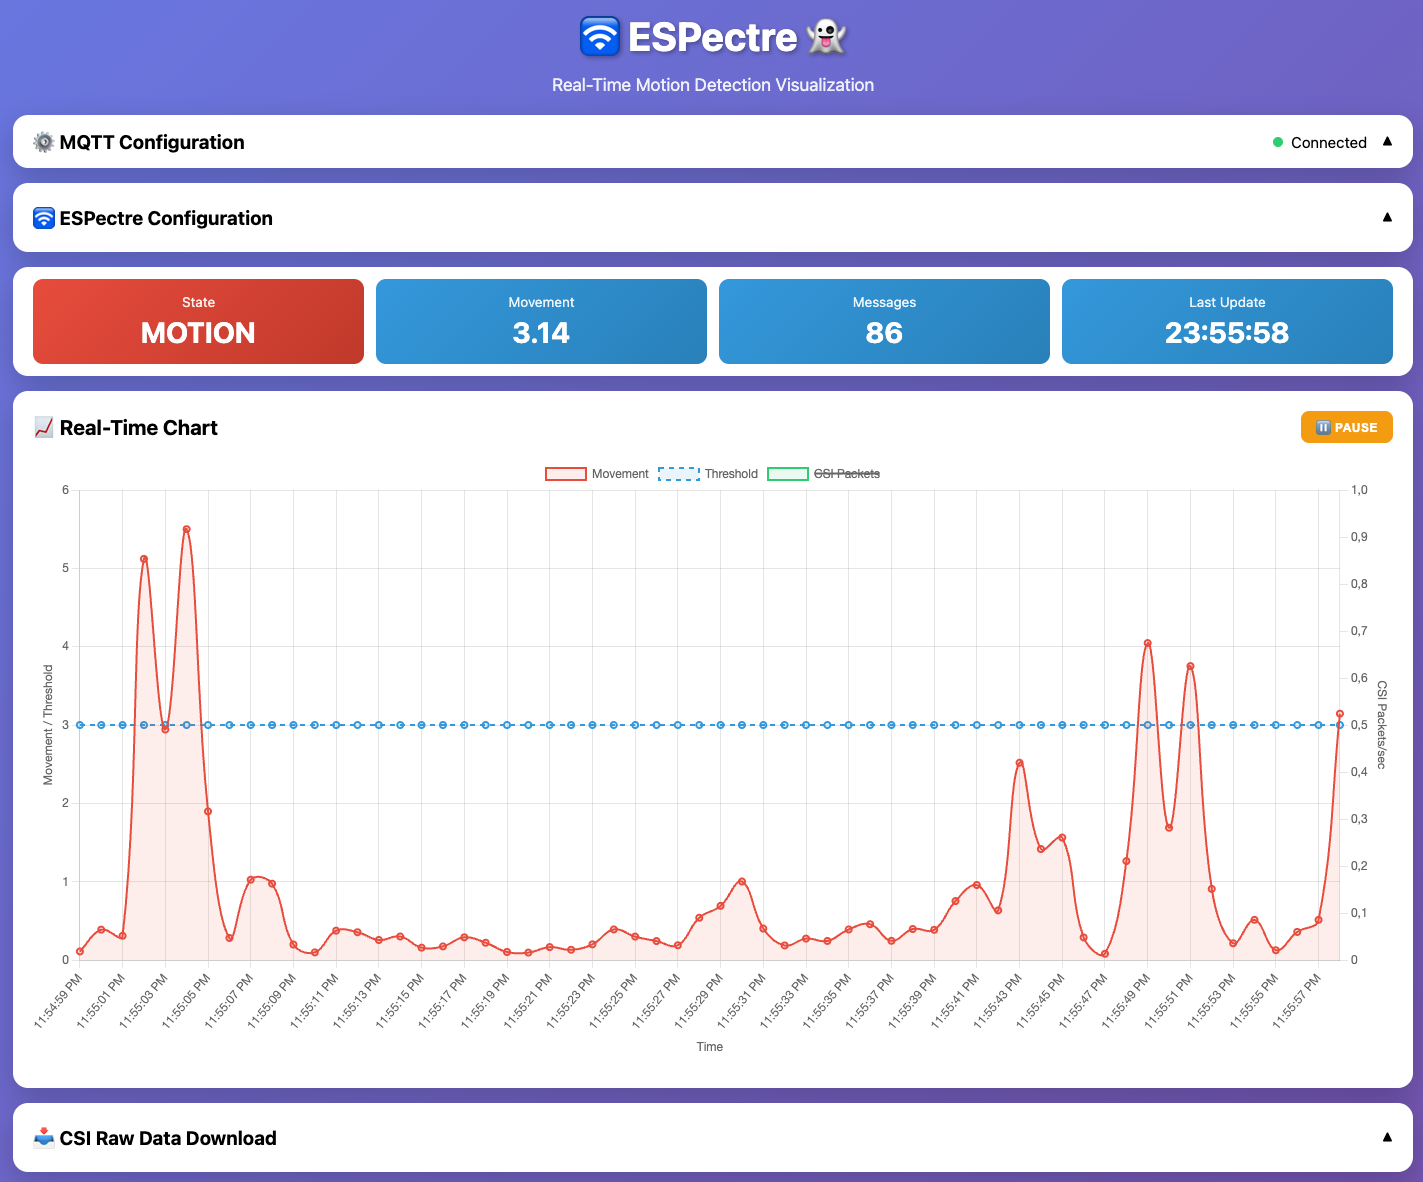
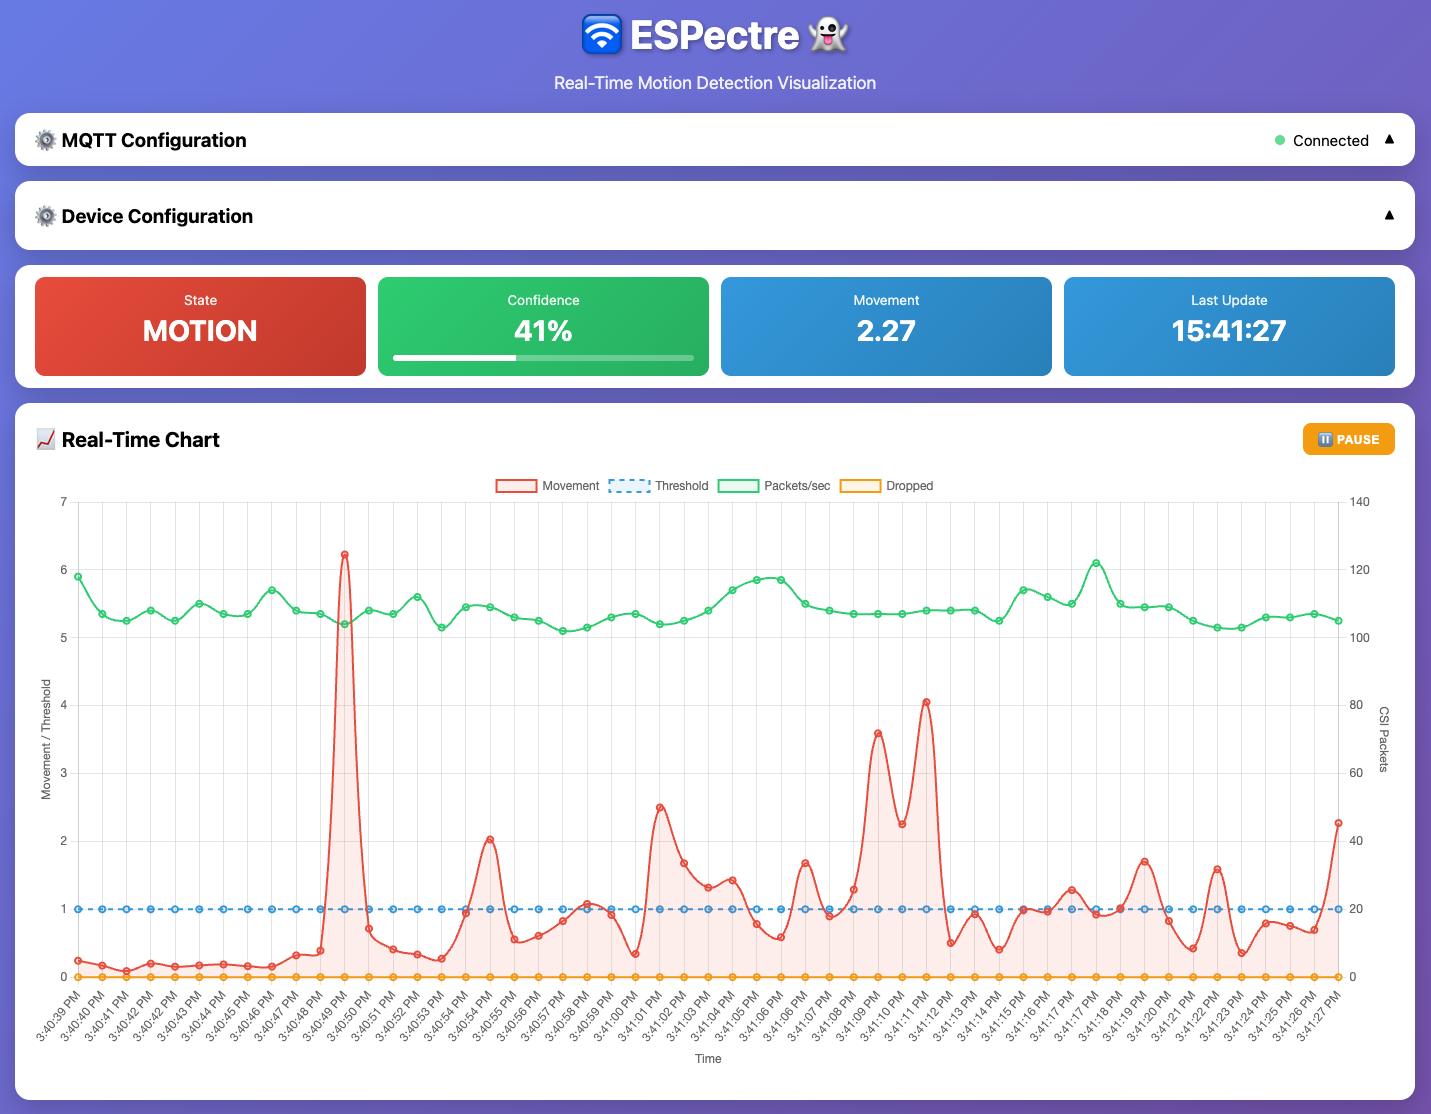
docs: update README with Web Monitor section and fix documentation
- Add Web Monitor section to micro-espectre/README.md with screenshots
- Fix anchor link to Advanced Applications section in main README
- Fix typos: 'Micro-Espectre' -> 'Micro-ESPectre', 'foundamentals' -> 'fundamentals'
- Update Web Monitor features table to match actual implementation
- Fix MQTT commands documentation: use JSON format, remove non-existent subcarrier_selection command
- Update web_monitor screenshots with current UI

diff --git a/micro-espectre/README.md b/micro-espectre/README.md
@@ -78,7 +78,7 @@ This fork makes CSI-based applications accessible to Python developers and enabl
 | Spectral De-correlation | ✅ | ✅ | ✅ Implemented |
 | **CSI Features** |
 | `features_enable` | ❌ | ✅ | `ENABLE_FEATURES = True` in config.py |
-| 5 CSI Features | ❌ | ✅ | entropy_turb, iqr_turb, variance_turb, skewness, kurtosis |
+| CSI Features | ❌ | ✅ | entropy_turb, iqr_turb, variance_turb, skewness, kurtosis |
 | Feature Extraction | ❌| ✅ | Publish-time calculation (no buffer, 92% memory saved) |
 | Hampel Filter | ❌ | ✅ | Applied to turbulence (configurable) |
 
@@ -315,7 +315,7 @@ micro-espectre/
 │   ├── 1_analyze_raw_data.py  # Raw CSI data visualization
 │   └── ...
 ├── requirements.txt           # Python dependencies
-├── espectre-monitor.html      # Web-based monitoring dashboard
+├── espectre-monitor.html      # Web Monitor: real-time analysis & configuration
 ├── espectre-theremin.html     # Audio sonification tool (experimental)
 ├── me                         # Unified CLI tool (flash/deploy/run/verify/MQTT)
 ├── .gitignore                 # Git ignore rules
@@ -351,7 +351,7 @@ ENABLE_FEATURES = False       # Enable/disable feature extraction and MQTT publi
 
 | Parameter | Default | Description |
 |-----------|---------|-------------|
-| `ENABLE_FEATURES` | `False` | Enable 10-feature extraction and MQTT publishing |
+| `ENABLE_FEATURES` | `True` | Enable feature extraction |
 | `SEG_WINDOW_SIZE` | `50` | Shared window size for both MVS and features |
 | `ENABLE_HAMPEL_FILTER` | `True` | Shared Hampel filter enable (used by both MVS and features) |
 | `HAMPEL_WINDOW` | `7` | Shared Hampel window size |
@@ -401,7 +401,7 @@ The system publishes JSON payloads to the configured MQTT topic (default: `home/
 
 | Field | Description |
 |-------|-------------|
-| `features` | 5 CSI features calculated at publish time |
+| `features` | CSI features calculated at publish time |
 | `confidence` | Detection confidence (0.0-1.0) based on weighted feature voting |
 | `triggered` | List of features that exceeded their motion thresholds |
 
@@ -641,14 +641,71 @@ Beyond the basic commands covered in the [CLI Tool Overview](#-cli-tool-overview
 | `about` | Show about information |
 | `exit` | Exit CLI |
 
-### Web Tools
+## 🌐 Web Monitor
 
-Two HTML-based tools are included for visualization:
+Micro-ESPectre includes a powerful **Web-based monitoring dashboard** for real-time analysis and configuration. This tool is essential for parameter tuning, algorithm validation, and live visualization of motion detection.
 
-- **`espectre-monitor.html`**: Real-time motion monitoring dashboard with charts
-- **`espectre-theremin.html`**: Audio sonification of CSI data (experimental)
+### Features
 
-**Usage**: Run `webui` command from the interactive CLI to open the web monitor. The CLI starts a local HTTP server automatically.
+| Feature | Description |
+|---------|-------------|
+| 📡 **MQTT Connection** | Direct WebSocket connection to your MQTT broker |
+| 🖥 **Device Info** | View device model, IP, MAC, WiFi protocol, bandwidth, and channel |
+| ⚙ **Live Configuration** | Adjust detection parameters (response speed, threshold) in real-time |
+| 📊 **Real-Time Chart** | Live visualization of movement, threshold, packets/sec, and dropped packets |
+| 📈 **Runtime Statistics** | Memory usage, loop timing, and Traffic Generator diagnostics |
+| 🔄 **Factory Reset** | Reset device to default configuration and re-calibrate NBVI |
+
+### Screenshots
+
+**Real-Time Chart View**
+
+![Web Monitor Chart](../images/web_monitor_chart.png)
+
+The dashboard displays:
+- **State**: Current detection state (MOTION in red, IDLE in green)
+- **Confidence**: Detection confidence percentage with progress bar
+- **Movement**: Current moving variance value
+- **Last Update**: Timestamp of last MQTT message
+
+The chart shows:
+- **Movement** (red line): Current moving variance output
+- **Threshold** (dashed blue): Detection threshold level
+- **Packets/sec** (green): CSI packet rate from traffic generator
+- **Dropped** (orange): Dropped packets count
+
+**Configuration Panel**
+
+![Web Monitor Configuration](../images/web_monitor_configurations.png)
+
+**Device Configuration** section shows:
+- Model, IP address, MAC address, WiFi protocol
+- Bandwidth (HT20/HT40), Channel, CSI status
+
+**Detection Parameters** (adjustable via sliders):
+- **Response Speed** (10-200): How fast the system reacts to changes (window size)
+- **Motion Threshold** (0.5-10.0): Minimum threshold to detect movement
+- **Active Subcarriers**: WiFi frequency channels used for detection
+
+**Action Buttons**:
+- **RELOAD INFO**: Refresh device information
+- **STATISTICS**: View runtime statistics
+- **FACTORY RESET**: Reset device to default configuration
+
+### Usage
+
+**Launch from CLI** (recommended):
+```bash
+./me          # Start interactive mode
+webui         # Open web monitor in browser
+```
+
+The CLI automatically serves the HTML file and opens it in your default browser.
+
+**Manual launch**:
+Open `micro-espectre/espectre-monitor.html` directly in your browser and configure the MQTT connection manually.
+
+### Browser Compatibility
 
 > ⚠ **Chrome Users**: If MQTT WebSocket connection fails, you need to enable local network WebSocket access:
 > 1. Open `chrome://flags/#local-network-access-check-websockets`
@@ -656,6 +713,10 @@ Two HTML-based tools are included for visualization:
 > 3. Restart Chrome
 >
 > This is required because Chrome blocks WebSocket connections to private network addresses (like `homeassistant.local`) by default.
+
+### Additional Tools
+
+- **`espectre-theremin.html`**: Audio sonification of CSI data (experimental) - converts motion data to sound for auditory feedback
 
 ## 📡 MQTT Integration
 
@@ -665,16 +726,15 @@ Micro-ESPectre uses MQTT for communication with Home Assistant and runtime confi
 
 ### Available MQTT Commands
 
-Publish commands to `home/espectre/node1/cmd`:
+Publish JSON commands to `home/espectre/node1/cmd`:
 
-| Command | Example | Description |
-|---------|---------|-------------|
-| `info` | `info` | Get system information (network, device, config) |
-| `stats` | `stats` | Get runtime statistics (memory, state, metrics) |
-| `segmentation_threshold` | `segmentation_threshold 1.5` | Set detection threshold |
-| `segmentation_window_size` | `segmentation_window_size 100` | Set window size |
-| `subcarrier_selection` | `subcarrier_selection 11,12,13,...` | Set subcarriers |
-| `factory_reset` | `factory_reset` | Reset to defaults |
+| Command | Example Payload | Description |
+|---------|-----------------|-------------|
+| `info` | `{"cmd": "info"}` | Get system information (network, device, config) |
+| `stats` | `{"cmd": "stats"}` | Get runtime statistics (memory, state, metrics) |
+| `segmentation_threshold` | `{"cmd": "segmentation_threshold", "value": 1.5}` | Set detection threshold (0.0-10.0) |
+| `segmentation_window_size` | `{"cmd": "segmentation_window_size", "value": 100}` | Set window size (10-200 packets) |
+| `factory_reset` | `{"cmd": "factory_reset"}` | Reset to defaults and re-calibrate NBVI |
 
 ### Command Responses
 
@@ -691,6 +751,11 @@ Publish commands to `home/espectre/node1/cmd`:
     "traffic_generator_rate": 100
   },
   "device": {"type": "esp32"},
+  "mqtt": {
+    "base_topic": "home/espectre/node1",
+    "cmd_topic": "home/espectre/node1/cmd",
+    "response_topic": "home/espectre/node1/response"
+  },
   "segmentation": {"threshold": 1.0, "window_size": 50},
   "subcarriers": {"indices": [6, 9, 10, 15, 18, 19, 30, 33, 36, 40, 49, 52]}
 }

diff --git a/README.md b/README.md
@@ -2,7 +2,7 @@
 [![ESPHome](https://img.shields.io/badge/ESPHome-Component-blue.svg)](https://esphome.io/)
 [![Platform](https://img.shields.io/badge/platform-ESP32-red.svg)](https://www.espressif.com/en/products/socs)
 [![Release](https://img.shields.io/github/v/release/francescopace/espectre)](https://github.com/francescopace/espectre/releases/latest)
-[![CI main](https://img.shields.io/github/actions/workflow/status/francescopace/espectre/ci.yml?branch=main&label=CI%20main)](https://github.com/francescopace/espectre/actions/workflows/ci.yml?query=branch%3Amain)
+[![CI](https://img.shields.io/github/actions/workflow/status/francescopace/espectre/ci.yml?branch=main&label=CI)](https://github.com/francescopace/espectre/actions/workflows/ci.yml?query=branch%3Amain)
 [![codecov](https://codecov.io/gh/francescopace/espectre/graph/badge.svg)](https://codecov.io/gh/francescopace/espectre)
 
 # 🛜 ESPectre 👻
@@ -493,19 +493,19 @@ This project follows a **dual-platform approach** to balance innovation speed wi
 
 ESPectre focuses on **production-ready motion detection** using mathematical algorithms (MVS + NBVI).
 
-For **advanced applications** requiring feature extraction and machine learning:
+For **advanced applications** requiring feature extraction and machine learning, see **[Micro-ESPectre](micro-espectre/)** which provides:
+- ✅ CSI features for ML training
+- ✅ Analysis tools for dataset collection
+- ✅ Scientific references and ML approaches
+- ✅ Public datasets information
+
+Micro-ESPectre gives you the fundamentals for:
 - 🔬 **People counting**
 - 🏃 **Activity recognition** (walking, falling, sitting, sleeping)
 - 📍 **Localization and tracking**
 - 👋 **Gesture recognition**
 
-See **[Micro-ESPectre](micro-espectre/)** which provides:
-- ✅ 10 CSI features for ML training
-- ✅ Analysis tools for dataset collection
-- ✅ Scientific references and ML approaches
-- ✅ Public datasets information
-
-📚 **Full documentation**: [Micro-ESPectre README](micro-espectre/README.md#advanced-applications--machine-learning)
+📚 **Jump to section**: [Micro-ESPectre - Advanced Applications & Machine Learning](micro-espectre/README.md#-advanced-applications--machine-learning)
 
 ---
 
